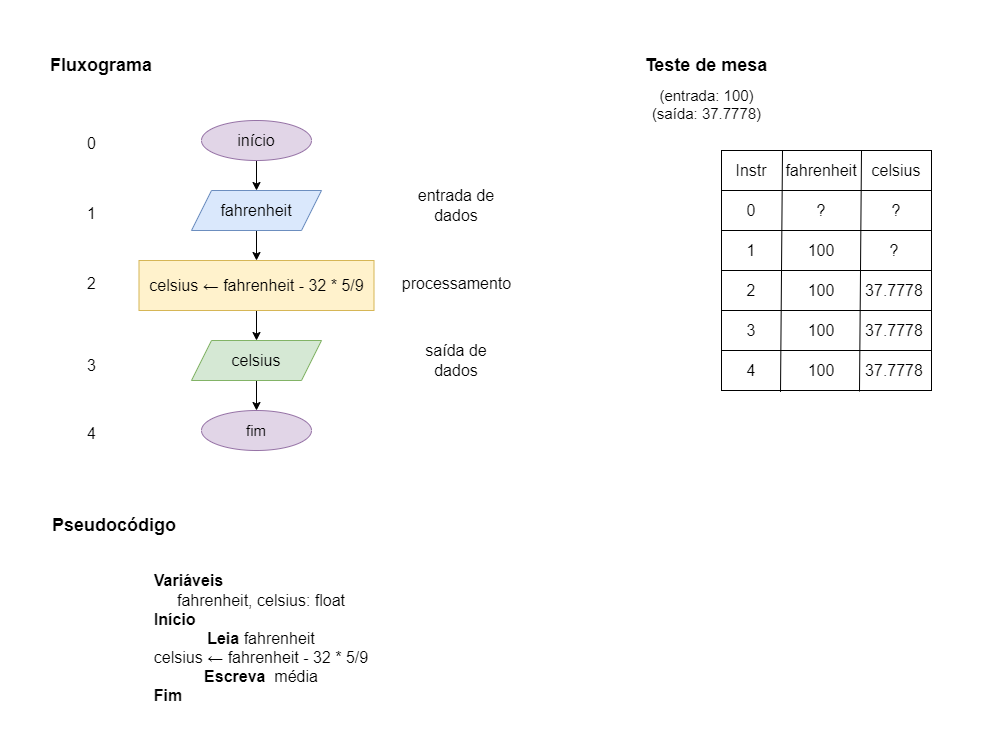
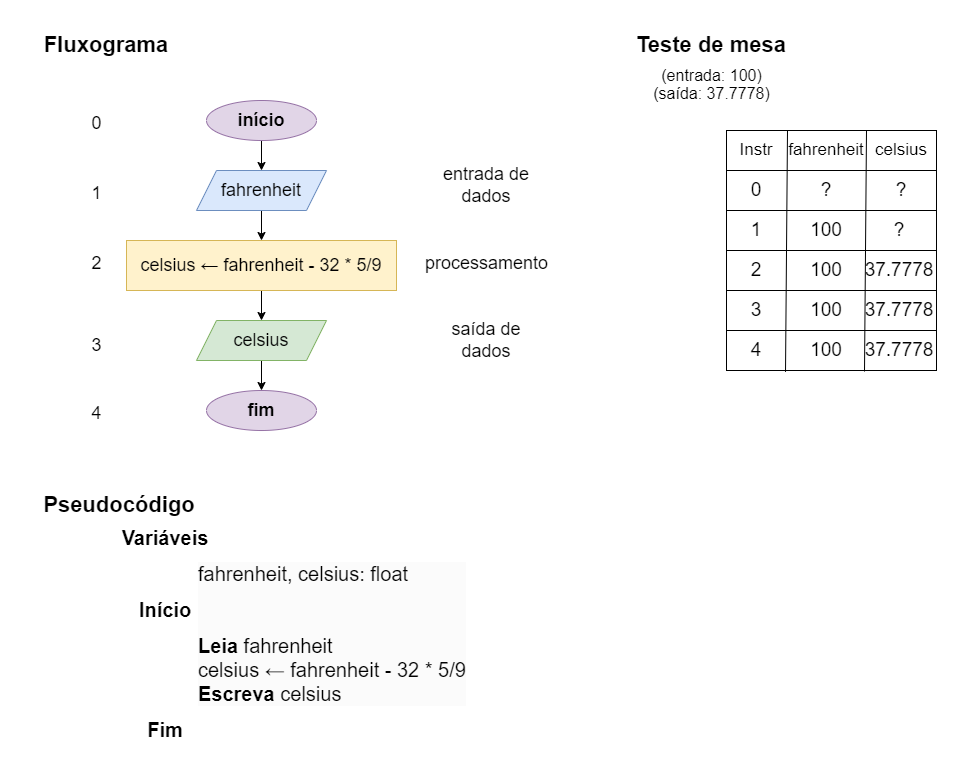
parte 01

diff --git a/algoritmos/introdução/exercício-04.md b/algoritmos/introdução/exercício-04.md
@@ -1,29 +1,27 @@
 # Exercício 04 - parte 01
   
 ## Introdução  
-Nos Estados Unidos da América, a altura de uma pessoa é medida em pés + polegadas. Por exemplo, considere uma pessoa com 5 pés + 11 polegadas de altura (escrito simplesmente como 5'11"); sabendo que 1 pé equivale a 12 polegadas, e 1 polegada equivale a 2.54 centímetros, conclui-se que tal pessoa tem por volta de 180.34 centímetros de altura.
+<div align="center">
 
-**(a)** Escreva um pseudocódigo para um algoritmo que lê dois números inteiros representando os valores da altura de uma pessoa em pés + polegadas, e escreve o valor da altura em centímetros. Em seguida, execute um teste de mesa com
-a entrada 5, 11; a saída deve ser 180.34.
+_"Nos Estados Unidos da América, a altura de uma pessoa é medida em pés + polegadas. Por exemplo, considere uma pessoa com 5 pés + 11 polegadas de altura (escrito simplesmente como 5'11"); sabendo que 1 pé equivale a 12 polegadas, e 1 polegada equivale a 2.54 centímetros, conclui-se que tal pessoa tem por volta de 180.34 centímetros de altura"_
 
-**(b)** Repita o item anterior, mas agora supondo que é lido um único valor em centímetros e são escritos os valores em pés e polegadas correspondentes. Assuma que exista uma função chamada round que arredonda um número real para 1/6 o inteiro mais próximo; por exemplo, round(3.14) = 3 e round(3.86) = 4. Em seguida, execute um teste de mesa com a entrada 180; a saída deve ser 5, 11.
+**A)** _"Escreva um pseudocódigo para um algoritmo que lê dois números inteiros representando os valores da altura de uma pessoa em pés + polegadas, e escreve o valor da altura em centímetros. Em seguida, execute um teste de mesa com a entrada 5, 11; a saída deve ser 180.34"_
 
+**B)** _"Repita o item anterior, mas agora supondo que é lido um único valor em centímetros e são escritos os valores em pés e polegadas correspondentes. Assuma que exista uma função chamada round que arredonda um número real para 1/6 o inteiro mais próximo; por exemplo, round(3.14) = 3 e round(3.86) = 4. Em seguida, execute um teste de mesa com a entrada 180; a saída deve ser 5, 11"_
+
+</div>
 
 ## Resolução
 
 ### A)
 
-#### Pseudocódigo
-
 <div align="center">
+
+#### Pseudocódigo
 
 ![](../../imagens/ex-04.png)
 
-</div>
-
 #### Teste de mesa
-(entrada =  5, 11) <br>
-(saída =  180.34)
 
 |Inst|pés|polegadas|centímetros|
 ----|----|----|----
@@ -37,21 +35,19 @@ a entrada 5, 11; a saída deve ser 180.34.
 |7|5|71|180.34|
 |8|5|71|180.34|
 
+</div>
 
 ### B)
 
-#### Pseudocódigo
-
 <div align="center">
+
+#### Pseudocódigo
 
 ![](../../imagens/ex-04.2.png)
 
-</div>
+
 
 #### Teste de mesa
-
-(entrada = 180) <br>
-(saída = 5, 11)
 
 |Inst|pés|polegadas|centímetros|
 ----|----|----|----
@@ -65,15 +61,14 @@ a entrada 5, 11; a saída deve ser 180.34.
 |7|5|10.866|180|
 |8|5|10.866|180| 
 |9|5|11|180|
-|9|5|11|180|
+|10|5|11|180|
 
-nao precisa round! como pes já é inteiro 😶
+</div>
+
 
 ### Extra para letra B
 
 Um código em C para auxiliar no teste de mesa 🤗
-
-Vale resaltar que fiz a variável "pes" como um número inteiro e a polegadas como um número  real, pois vamos tentar converter o máximo de  "pés" inteiros e o que sobrar fica como polegada.
 
 ```c
 #include <stdio.h>
@@ -88,8 +83,11 @@ int main() {
     int pes = polegadas / 12;
     polegadas = polegadas - pes*12;
 
-    printf("Altura: %f' %f\n", round(pes), round(polegadas));
+    printf("Altura: %d' %.f''\n", pes, round(polegadas));
 
     return 0;
-}
 ```
+
+Mas... Por que foi utilizado int para "pes" e float para "polegadas"? <br> <br>
+Em resumo, é por conta do arredondamento que é feito com a função "round" dada a lógica que foi implementada no código. Ao usar int para polegadas também, perdemos a parte fracionária e o arredondamento não funciona corretamente como foi instruído no exercício.
+

diff --git a/algoritmos/introdução/exercício-05.md b/algoritmos/introdução/exercício-05.md
@@ -1,20 +1,25 @@
 # Exercício 05 - parte 01
   
 ## Introdução  
-Escreva um fluxograma e um pseudocódigo para um algoritmo que lê os salários por
-hora (em R$ por hora) e as horas trabalhadas de três colaboradores de uma empresa
-e escreve o pagamento de cada um deles, bem como o total pago pela empresa.
+<div align="center">
 
-Não utilize mais que quatro variáveis. A ordem de leitura dos dados de entrada deve ser:
+_"Escreva um fluxograma e um pseudocódigo para um algoritmo que lê os salários por
+hora (em R$ por hora) e as horas trabalhadas de três colaboradores de uma empresa
+e escreve o pagamento de cada um deles, bem como o total pago pela empresa._
+
+_Não utilize mais que quatro variáveis. A ordem de leitura dos dados de entrada deve ser:
 Salário do colaborador 1, horas trabalhadas do colaborador 1, salário do
 colaborador 2, horas trabalhadas do colaborador 2, salário do colaborador 3,
-horas trabalhadas do colaborador 3.
+horas trabalhadas do colaborador 3._
 
-A ordem de escrita dos dados de saída deve ser:
-Pagamento do colaborador 1, pagamento do colaborador 2, pagamento do colaborador 3, total pago pela empresa.
+_A ordem de escrita dos dados de saída deve ser:
+Pagamento do colaborador 1, pagamento do colaborador 2, pagamento do colaborador 3, total pago pela empresa._
 
-Em seguida, execute um teste de mesa com a entrada 50, 8, 60, 7, 50, 7.5; a saída
-deve ser 400, 420, 375, 1195.
+_Em seguida, execute um teste de mesa com a entrada 50, 8, 60, 7, 50, 7.5; a saída
+deve ser 400, 420, 375, 1195."_
+
+
+</div>
 
 ## Resolução
 
@@ -23,9 +28,64 @@ deve ser 400, 420, 375, 1195.
 
 ![](../../imagens/ex-05.png)
 
-</div>
 
 ### Teste de mesa
 
-(falta fazer! 😛)
+Primeira iteração (funcionário 1)
 
+|Inst|salario_hora|hora|total|num_funcionarios|
+----|----|----|----|----|
+|0|?|?|?|?|
+|1|?|?|?|?|
+|2|?|?|?|?|
+|3|?|?|0|?|
+|4|?|?|0|3| funcionario num
+|5|?|?|0|3| enquanto
+|6|?|?|0|3| inicio
+|7|50|?|0|3| ler salario_hora
+|8|50|8|0|3| ler hora
+|9|50|8|0|3| escreve
+|10|50|8|0|2| diminui func
+|11|50|8|400|2| total
+|12|50|8|400|2| fim
+
+Segunda iteração (funcionário 2)
+
+|Inst|salario_hora|hora|total|num_funcionarios|
+----|----|----|----|----|
+|5|50|8|400|2| enquanto 
+|6|50|8|400|2| inicio
+|7|60|8|400|2| ler salario_hora
+|8|60|7|400|2| ler hora
+|9|60|7|400|2| escreve
+|10|60|7|400|1| diminui func
+|11|60|7|820|1| total
+|12|60|7|820|1| fim
+
+Terceira iteração (funcionário 3)
+
+|Inst|salario_hora|hora|total|num_funcionarios|
+----|----|----|----|----|
+|5|60|7|820|1| enquanto
+|6|60|7|820|1| inicio
+|7|50|7|820|1| ler salario_hora
+|8|50|7.5|820|1| ler hora
+|9|50|7.5|820|1| escreve
+|10|50|7.5|820|0| diminui func
+|11|50|7.5|1195|0| total
+|12|50|7.5|1195|0| fim
+
+Leu todos os funcionários, sai do laço
+
+|Inst|salario_hora|hora|total|num_funcionarios|
+----|----|----|----|----|
+|5|60|7|820|0| enquanto (Falso)
+|13|50|7.5|1195|0| escreve total
+|14|50|7.5|1195|0| fim
+
+
+<br><br>
+
+**Obs: Iteração significa uma repetição do laço.**
+
+</div>

diff --git a/algoritmos/introdução/exercício-06.md b/algoritmos/introdução/exercício-06.md
@@ -1,13 +1,15 @@
-# Exercício 05 - parte 01
+# Exercício 06 - parte 01
   
 ## Introdução  
-Escreva um fluxograma e um pseudocódigo para um algoritmo que lê cinco inteiros,
+<div align="center">
+
+_"Escreva um fluxograma e um pseudocódigo para um algoritmo que lê cinco inteiros,
 cada um sendo 0 ou 1, que compõem os bits da representação binária de um número,
 e escreve esse número (em decimal).
+<br> <br> Assuma que os bits são informados do mais significativo para o menos significativo. <br> <br>
+Em seguida, execute um teste de mesa com a entrada 1, 0, 1, 1, 0; a saída deve ser 22"_
 
-Assuma que os bits são informados do mais significativo para o menos significativo.
-
-Em seguida, execute um teste de mesa com a entrada 1, 0, 1, 1, 0; a saída deve ser 22
+</div>
 
 ## Resolução
 
@@ -19,5 +21,25 @@ Em seguida, execute um teste de mesa com a entrada 1, 0, 1, 1, 0; a saída deve 
 
 ### Teste de mesa
 
-(falta fazer! 😛)
+<div align="center">
 
+
+|Inst|bit1|bit2|bit3|bit4|bit5|resultado|
+----|----|----|----|----|----|----|
+|0|?|?|?|?|?|?|
+|1|?|?|?|?|?|?|
+|2|?|?|?|?|?|?| inicio
+|3|1|?|?|?|?|?|
+|4|1|0|?|?|?|?|
+|5|1|0|1|?|?|?|
+|6|1|0|1|1|?|?|
+|7|1|0|1|1|0|?|
+|8|16|0|1|1|0|?| bit1 *
+|9|16|0|1|1|0|?| bit2 *
+|10|16|0|4|1|0|?| bit3 *
+|11|16|0|4|2|0|?| bit4 *
+|12|16|0|4|2|0|22| resultado
+|13|16|0|4|2|0|22|
+|14|16|0|4|2|0|22|
+
+</div>

diff --git a/algoritmos/introdução/exercício-03.md b/algoritmos/introdução/exercício-03.md
@@ -1,11 +1,12 @@
 # Exercício 03 - parte 01
   
 ## Introdução  
-Escreva um fluxograma para um algoritmo que lê três números reais 𝑎, 𝑏 e 𝑐, representando os coeficientes de uma equação de segundo grau, e escreve o valor do discriminante Δ = 𝑏^2 − 4𝑎𝑐 da equação. 
 
-Assuma que não há operador de exponenciação disponível. 
+<div align="center">
 
-Em seguida, execute um teste de mesa com a entrada 1, 5, -3; asaída deve ser 37.
+_"Escreva um fluxograma para um algoritmo que lê três números reais 𝑎, 𝑏 e 𝑐, representando os coeficientes de uma equação de segundo grau, e escreve o valor do discriminante **Δ = 𝑏^2 − 4𝑎𝑐** da equação. <br> Assuma que não há operador de exponenciação disponível. <br> Em seguida, execute um teste de mesa com a entrada 1, 5, -3; asaída deve ser 37."_
+
+</div>
 
 ## Resolução
 
@@ -14,3 +15,9 @@ Em seguida, execute um teste de mesa com a entrada 1, 5, -3; asaída deve ser 37
 ![](../../imagens/ex-03.png)
 
 </div>
+
+### Extra
+
+Em C, existe uma biblioteca chamada **<math.h>** que tem uma funcionalidade que permite elevar um número a um expoente. 
+
+Então, quando é necessário elevar o expoente a um número muito alto, a biblioteca pode ser útil! 🥰

diff --git a/algoritmos/introdução/exercício-02.md b/algoritmos/introdução/exercício-02.md
@@ -1,18 +1,15 @@
 # Exercício 02 - parte 01
   
 ## Introdução  
-Implemente um algoritmo, na forma de pseudocódigo, para determinar a hipotenusa
-de um triângulo retângulo, dados os seus catetos. 
 
-Quais são os dados de entrada?
+<div align="center">
 
-As variáveis que receberão estes dados devem ser que que tipo? 
+_"Implemente um algoritmo, na forma de pseudocódigo, para determinar a hipotenusa
+de um triângulo retângulo, dados os seus catetos. <Br>Quais são os dados de entrada? <br> As variáveis que receberão estes dados devem ser que que tipo? <br> Quais são os dados de saída?<br>
+Estes dados serão armazenados em variáveis de que tipo? <br>
+Obs: Assuma que há uma função sqrt que calcula raiz quadrada."_
 
-Quais são os dados de saída?
-
-Estes dados serão armazenados em variáveis de que tipo? 
-
-Obs: Assuma que há uma função sqrt que calcula raiz quadrada.
+</div>
 
 ## Resolução
 

diff --git a/algoritmos/introdução/exercício-01.md b/algoritmos/introdução/exercício-01.md
@@ -1,11 +1,11 @@
 # Exercício 01 - parte 01
   
-## Introdução  
-Escreva um fluxograma e um pseudocódigo para um algoritmo que lê um número real representando uma temperatura em graus Fahrenheit e escreve esta temperatura em graus Celsius.
+## Introdução 
+<div align="center">
 
-Lembre-se que para converter de Fahrenheit para Celsius, basta subtrair 32 e multiplicar por 5/9. 
+_"Escreva um fluxograma e um pseudocódigo para um algoritmo que lê um número real representando uma temperatura em graus Fahrenheit e escreve esta temperatura em graus Celsius. <br>Lembre-se que para converter de Fahrenheit para Celsius, basta subtrair 32 e multiplicar por 5/9. <br> Em seguida, execute um teste de mesa com a entrada 100; a saída deve ser 37.7778."_
 
-Em seguida, execute um teste de mesa com a entrada 100; a saída deve ser 37.7778.
+</div>
 
 ## Resolução
 
